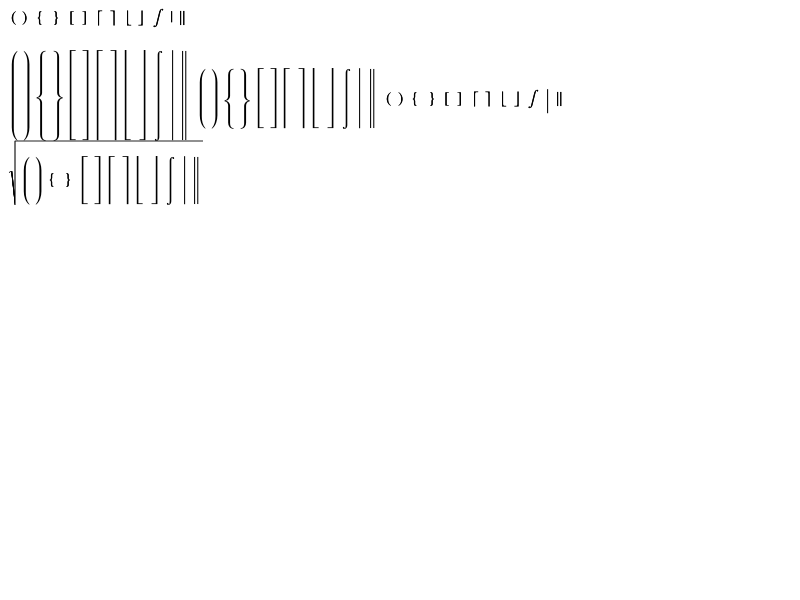
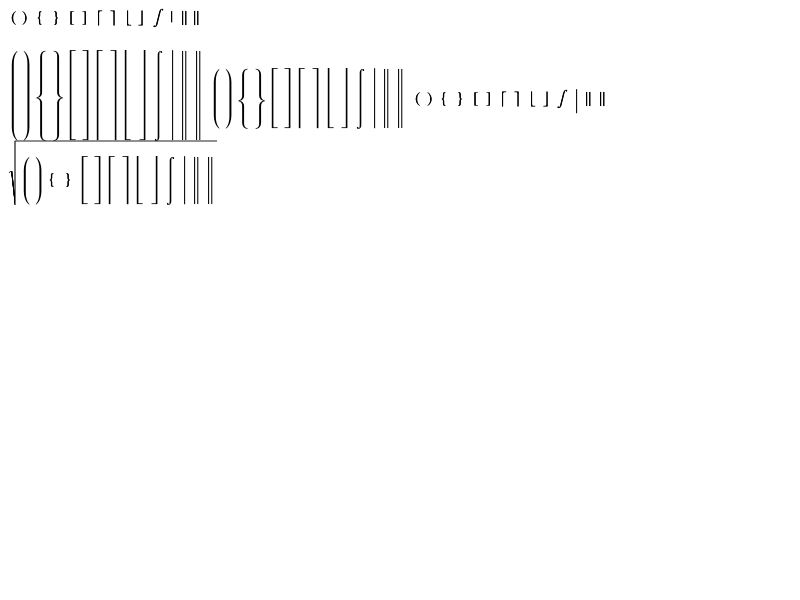
[MathML] The double bar vertical delimiter does not stretch properly https://bugs.webkit.org/show_bug.cgi?id=123543
Reviewed by Chris Fleizach.

Source/WebCore:

* rendering/mathml/RenderMathMLOperator.cpp: Add stretching support for U+2225, which
is another version of the vertical bar.

LayoutTests:

* mathml/presentation/mo-stretch.html: Add &DoubleVerticalBar; to this test,
which covers the other version of the vertical bar.
* platform/gtk/mathml/presentation/mo-stretch-expected.png:
* platform/gtk/mathml/presentation/mo-stretch-expected.txt:

git-svn-id: https://svn.webkit.org/repository/webkit/trunk@159219 268f45cc-cd09-0410-ab3c-d52691b4dbfc

diff --git a/LayoutTests/mathml/presentation/mo-stretch.html b/LayoutTests/mathml/presentation/mo-stretch.html
@@ -9,8 +9,8 @@
             <mo>[</mo> <mo>]</mo>
             <mo>&LeftCeiling;</mo> <mo>&RightCeiling;</mo>
             <mo>&LeftFloor;</mo> <mo>&RightFloor;</mo>
-            <mo stretchy="true">&Integral;</mo>
-            <mo>|</mo> <mo>&Verbar;</mo>
+            <mo stretchy="true">&Integral;</mo> <mo>|</mo>
+            <mo>&Verbar;</mo> <mo>&DoubleVerticalBar;</mo>
         </mrow>
     </math>
 
@@ -24,8 +24,8 @@
             <mo>[</mo> <mo>]</mo>
             <mo>&LeftCeiling;</mo> <mo>&RightCeiling;</mo>
             <mo>&LeftFloor;</mo> <mo>&RightFloor;</mo>
-            <mo stretchy="true">&Integral;</mo>
-            <mo>|</mo> <mo>&Verbar;</mo>
+            <mo stretchy="true">&Integral;</mo> <mo>|</mo>
+            <mo>&Verbar;</mo> <mo>&DoubleVerticalBar;</mo>
             <mspace height="75px" depth="1px"/>
         </mrow>
     </math>
@@ -37,8 +37,8 @@
             <mo>[</mo> <mo>]</mo>
             <mo>&LeftCeiling;</mo> <mo>&RightCeiling;</mo>
             <mo>&LeftFloor;</mo> <mo>&RightFloor;</mo>
-            <mo stretchy="true">&Integral;</mo>
-            <mo>|</mo> <mo>&Verbar;</mo>
+            <mo stretchy="true">&Integral;</mo> <mo>|</mo>
+            <mo>&Verbar;</mo> <mo>&DoubleVerticalBar;</mo>
             <mspace height="50px" depth="1px"/>
         </mrow>
     </math>
@@ -50,8 +50,8 @@
             <mo>[</mo> <mo>]</mo>
             <mo>&LeftCeiling;</mo> <mo>&RightCeiling;</mo>
             <mo>&LeftFloor;</mo> <mo>&RightFloor;</mo>
-            <mo stretchy="true">&Integral;</mo>
-            <mo>|</mo> <mo>&Verbar;</mo>
+            <mo stretchy="true">&Integral;</mo> <mo>|</mo>
+            <mo>&Verbar;</mo> <mo>&DoubleVerticalBar;</mo>
             <mspace height="20px" depth="1px"/>
         </mrow>
     </math>
@@ -66,8 +66,8 @@
             <mo>[</mo> <mo>]</mo>
             <mo>&LeftCeiling;</mo> <mo>&RightCeiling;</mo>
             <mo>&LeftFloor;</mo> <mo>&RightFloor;</mo>
-            <mo stretchy="true">&Integral;</mo>
-            <mo>|</mo> <mo>&Verbar;</mo>
+            <mo stretchy="true">&Integral;</mo> <mo>|</mo>
+            <mo>&Verbar;</mo> <mo>&DoubleVerticalBar;</mo>
             <mspace height="40px" depth="1px"/>
       </msqrt>
     </math>

diff --git a/Source/WebCore/rendering/mathml/RenderMathMLOperator.cpp b/Source/WebCore/rendering/mathml/RenderMathMLOperator.cpp
@@ -46,7 +46,7 @@ namespace WebCore {
 using namespace MathMLNames;
 
 // FIXME: The OpenType MATH table contains information that should override this table (http://wkbug/122297).
-static RenderMathMLOperator::StretchyCharacter stretchyCharacters[13] = {
+static RenderMathMLOperator::StretchyCharacter stretchyCharacters[14] = {
     { 0x28  , 0x239b, 0x239c, 0x239d, 0x0    }, // left parenthesis
     { 0x29  , 0x239e, 0x239f, 0x23a0, 0x0    }, // right parenthesis
     { 0x5b  , 0x23a1, 0x23a2, 0x23a3, 0x0    }, // left square bracket
@@ -58,6 +58,7 @@ static RenderMathMLOperator::StretchyCharacter stretchyCharacters[13] = {
     { 0x7b  , 0x23a7, 0x23aa, 0x23a9, 0x23a8 }, // left curly bracket
     { 0x7c  , 0x7c,   0x7c,   0x7c,   0x0    }, // vertical bar
     { 0x2016, 0x2016, 0x2016, 0x2016, 0x0    }, // double vertical line
+    { 0x2225, 0x2225, 0x2225, 0x2225, 0x0    }, // parallel to
     { 0x7d  , 0x23ab, 0x23aa, 0x23ad, 0x23ac }, // right curly bracket
     { 0x222b, 0x2320, 0x23ae, 0x2321, 0x0    } // integral sign
 };
